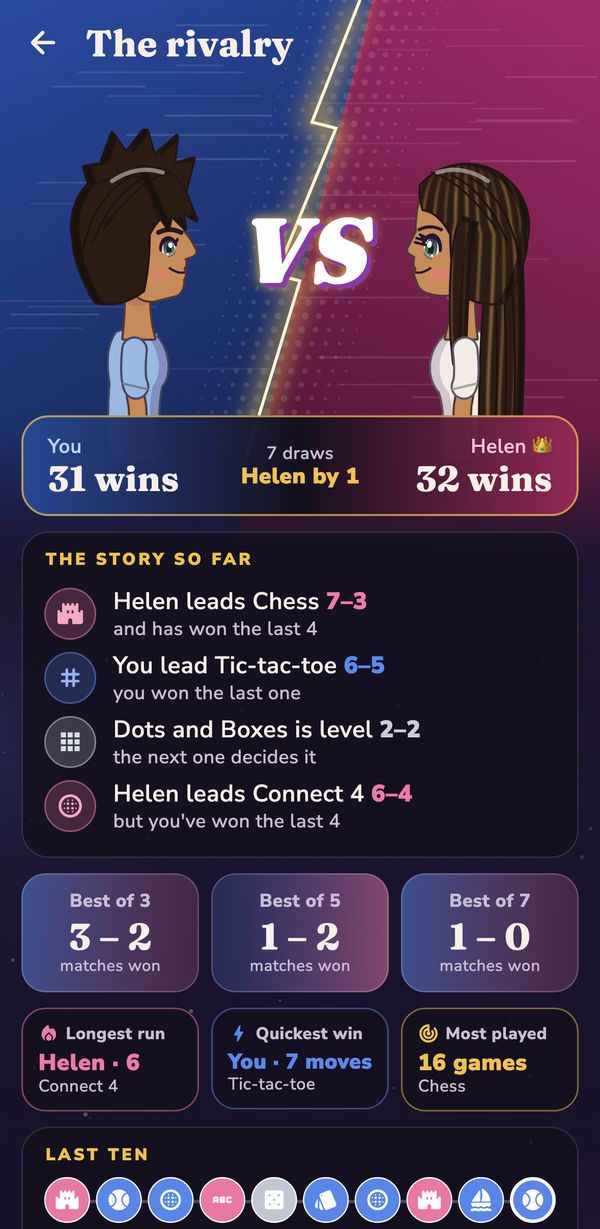
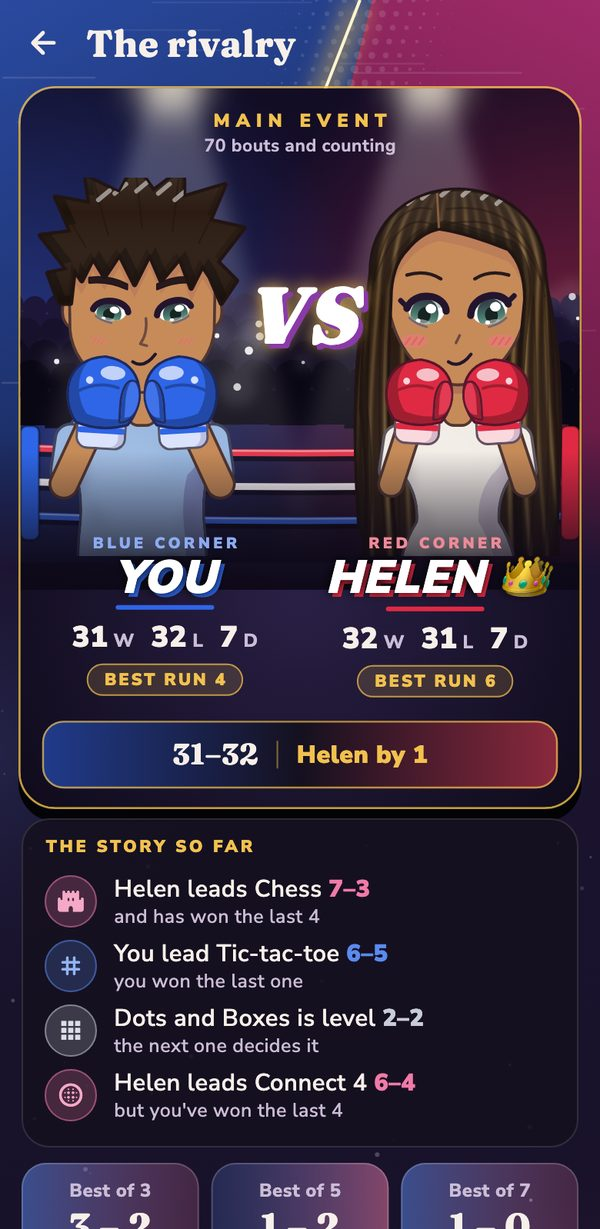
The rivalry as a fight night

diff --git a/index.html b/index.html
@@ -116,7 +116,7 @@
           <img data-shot="store" src="img/store.jpg?v=20261025" alt="">
           <img data-shot="arcade" src="img/arcade.jpg?v=20261025" alt="">
           <img data-shot="watch" src="img/watch.jpg?v=20261025" alt="">
-          <img data-shot="rivalry" src="img/rivalry.jpg?v=20261025" alt="">
+          <img data-shot="rivalry" src="img/rivalry.jpg?v=20261026" alt="">
           <img data-shot="slowmail" src="img/slow_mail.jpg?v=20261025" alt="">
           <img data-shot="post" src="img/goodnight.jpg?v=20261025" alt="">
           <img data-shot="garden" src="img/heart_garden.jpg?v=20261025" alt="">
@@ -174,8 +174,8 @@
         <article class="story" data-shot="rivalry">
           <span class="tag">The rivalry</span>
           <h3>Who's winning, game by game</h3>
-          <p>Every win and draw is kept on your rivalry page: who leads at chess, who's on a streak, the quickest win. Settle it properly with a best of three, five or seven.</p>
-          <img class="inline" src="img/rivalry.jpg?v=20261025" alt="The rivalry: 31 wins to 32, who leads each game, and best-of matches" loading="lazy" width="600" height="1229">
+          <p>Every win and draw is kept on your rivalry page, fight-night style: the two of you in the blue and red corners, gloves up, with your records and your best runs. See who leads at chess, then settle it properly with a best of three, five or seven.</p>
+          <img class="inline" src="img/rivalry.jpg?v=20261026" alt="The rivalry as a fight night: the two of you in the blue and red corners with your gloves up, your records and who leads each game" loading="lazy" width="600" height="1229">
         </article>
         <article class="story" data-shot="slowmail">
           <span class="tag">Slow mail</span>
